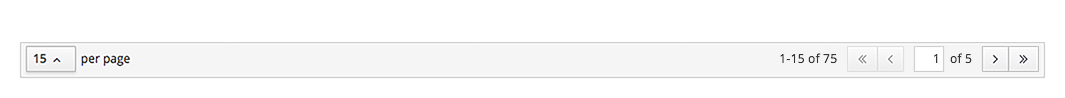
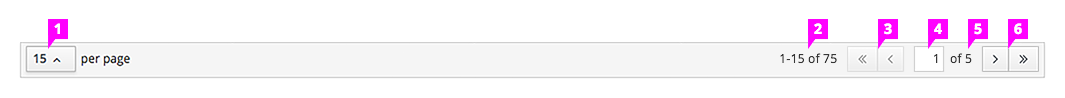
callouts
put in pink pointers

Changed region(s): [[0.8056, 0.1837, 0.9915, 0.4592], [0.7437, 0.1837, 0.7746, 0.4592], [0.031, 0.1837, 0.062, 0.4592]]

diff --git a/pattern-library/navigation/pagination/design/design.md b/pattern-library/navigation/pagination/design/design.md
@@ -7,10 +7,10 @@
 1. Number of items on a page
   * Includes option to modify the number of items displayed. It is recommended that the default number be less than 25 in order to minimize scrolling.
 2. Items currently displayed
-3. Current page / navigate to specific page
-4. Total number of pages
-5. Navigate to the next or previous page
-6. Navigate to the first or last page
+3. Navigate to the previous or first page
+4. Current page / navigate to specific page
+5. Total number of pages
+6. Navigate to the next or last page
 
 ## Pagination - Selection Pattern
 
